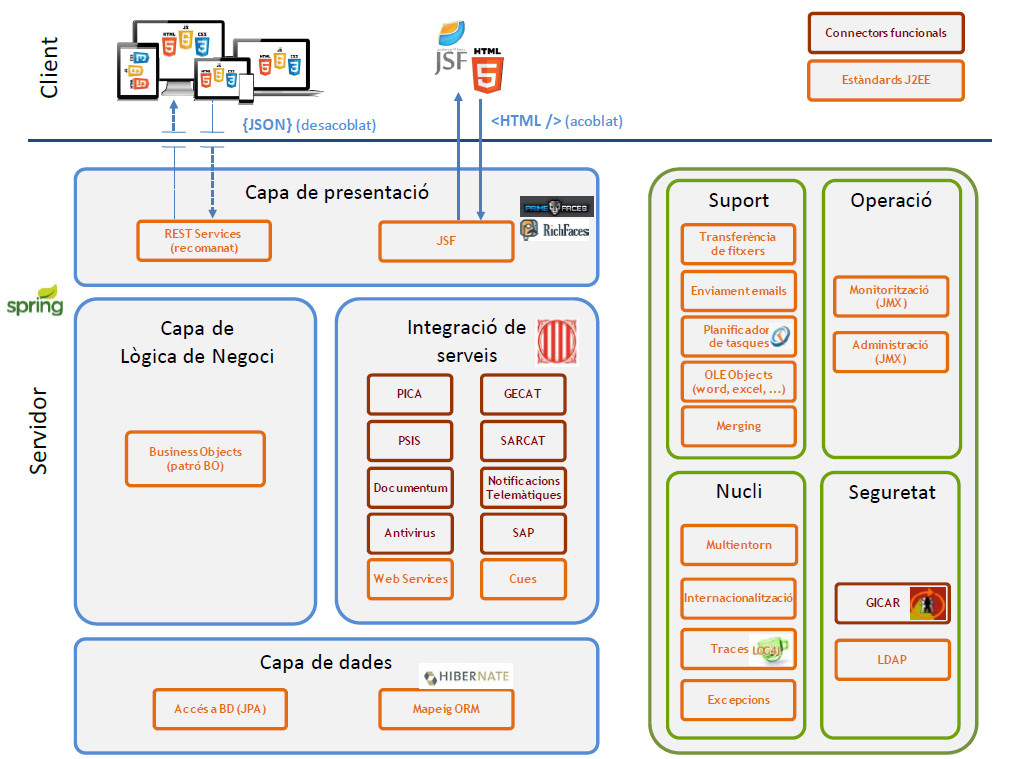
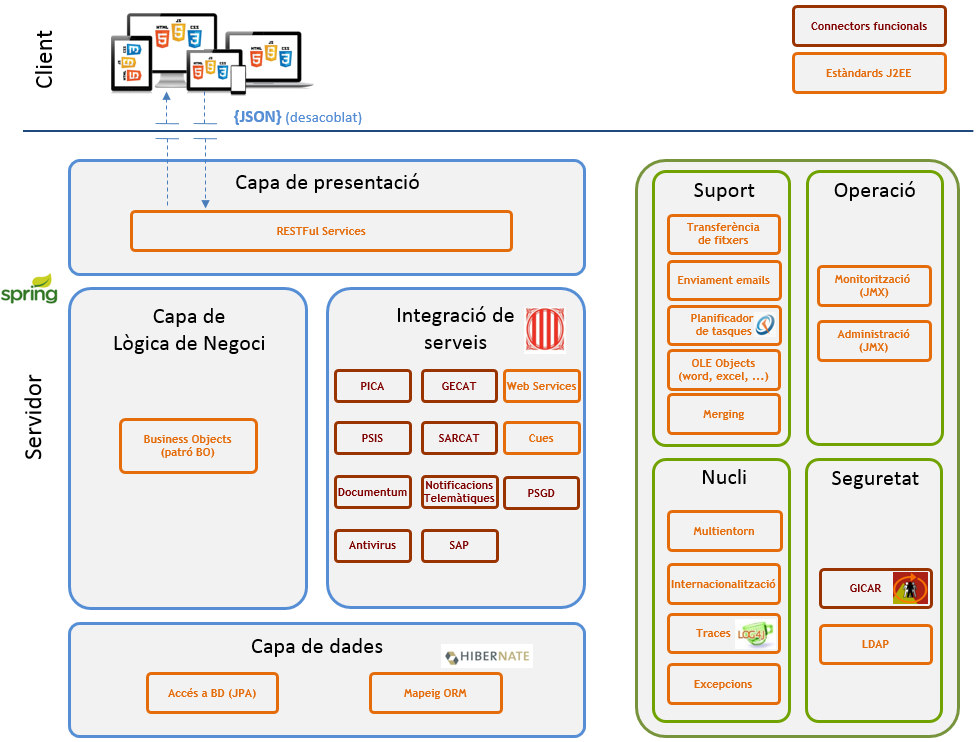
new version

diff --git a/canigo-documentacio-versions-3x-integracio/modul-psgd/index.html b/canigo-documentacio-versions-3x-integracio/modul-psgd/index.html
@@ -2,7 +2,7 @@
 <html xml:lang="ca-ES" lang="ca-ES" xmlns="http://www.w3.org/1999/xhtml">
 <head>
 
-	<title>PSGD</title>
+	<title>ARESTA (PSGD)</title>
 		<meta charset="UTF-8" />
 	<meta http-equiv="X-UA-Compatible" content="IE=edge" />
 	<meta name="viewport" content="width=device-width, initial-scale=1.0" />
@@ -12,7 +12,7 @@
 	<script src="/js/jquery.min.js" type="text/javascript"></script>
 
 	<script>
-		document.write("<meta name=\"titol\" content=\"PSGD\" />");
+		document.write("<meta name=\"titol\" content=\"ARESTA (PSGD)\" />");
 		document.write("<meta name=\"description\" content=\"Plataforma de Serveis de Gestió Documental\" />");
 	</script>
 
@@ -278,7 +278,7 @@
 									</li>
 									
 									<li>
-										PSGD
+										ARESTA (PSGD)
 									</li>
 									
 
@@ -286,7 +286,7 @@
 
 								<h1 class="capcelera_flotant pull-left" data-txt=".title">
 									
-										PSGD
+										ARESTA (PSGD)
 									
 								</h1>
 
@@ -322,11 +322,11 @@
 
 <h2 id="introducció:f6744d163be9db10c17551bf369aa217">Introducció</h2>
 
-<p>L&rsquo;objectiu d&rsquo;aquest connector és proporcionar un punt d&rsquo;accés cap a la Plataforma de Serveis de Gestió Documental.</p>
+<p>L&rsquo;objectiu d&rsquo;aquest connector és proporcionar un punt d&rsquo;accés cap a la Plataforma de Serveis de Gestió Documental (PSGD) també coneguda com a ARESTA.</p>
 
 <h2 id="propòsit:f6744d163be9db10c17551bf369aa217">Propòsit</h2>
 
-<p>El propòsit del connector és proporcionar una interfície funcional que faciliti a les aplicacions l&rsquo;ús de la Plataforma de Serveis de Gestió Documental.</p>
+<p>El propòsit del connector és proporcionar una interfície funcional que faciliti a les aplicacions l&rsquo;ús de la PSGD.</p>
 
 <h2 id="context-i-escenaris-d-ús:f6744d163be9db10c17551bf369aa217">Context i Escenaris d&rsquo;ús</h2>
 
@@ -466,7 +466,7 @@ private PsgdConnectorImpl psgdConnector;
 
 <pre><code class="language-java">
  Document document = new Document();
-             
+	         
  DocumentMetaData documentMetaData = new DocumentMetaData();
  
  documentMetaData.setDocumentName(&quot;prova.txt&quot;);
@@ -543,7 +543,7 @@ result.getResult().getResultData().getData().writeTo(outputStream);
 <p>Al fitxer Log4j.xml s&rsquo;ha de posar a debug la classe: cat.gencat.ctti.canigo.arch.integration.psgd.utils.LoggingRequestInterceptor</p>
 
 <pre><code class="language-xml">&lt;category name=&quot;cat.gencat.ctti.canigo.arch.integration.psgd.utils&quot;&gt;
-    &lt;level value=&quot;debug&quot;/&gt;
+	&lt;level value=&quot;debug&quot;/&gt;
 &lt;/category&gt;
 </code></pre>
 

diff --git a/canigo-documentacio-versions-3x-integracio/index.html b/canigo-documentacio-versions-3x-integracio/index.html
@@ -888,7 +888,7 @@
 
 						
 						
-							<a href="http://canigo.ctti.gencat.cat/canigo-documentacio-versions-3x-integracio/modul-psgd/" title="PSGD">PSGD</a>
+							<a href="http://canigo.ctti.gencat.cat/canigo-documentacio-versions-3x-integracio/modul-psgd/" title="ARESTA (PSGD)">ARESTA (PSGD)</a>
         				
 
 						</h2>
